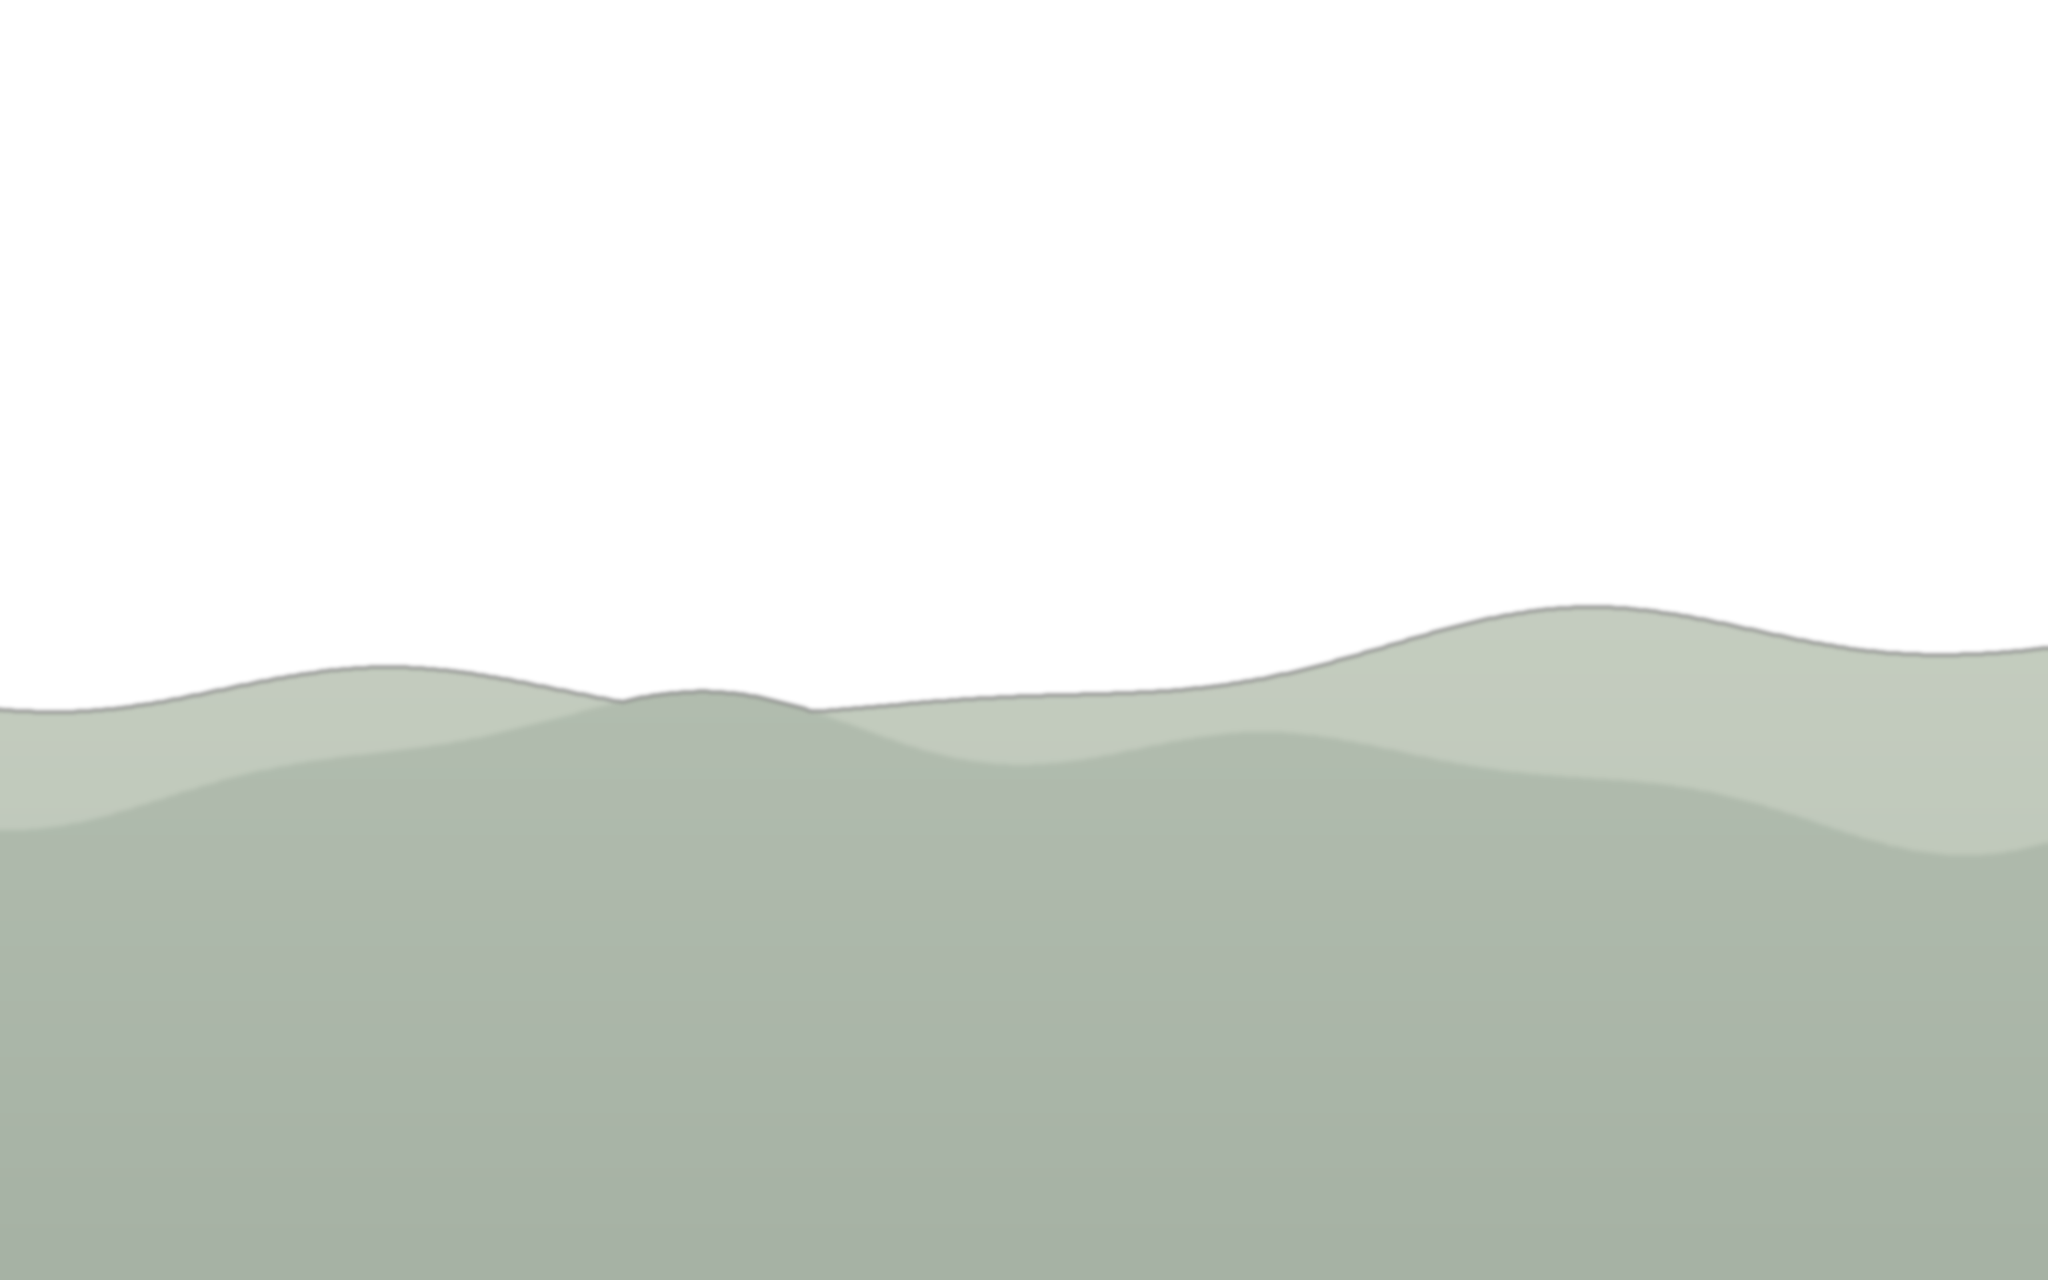
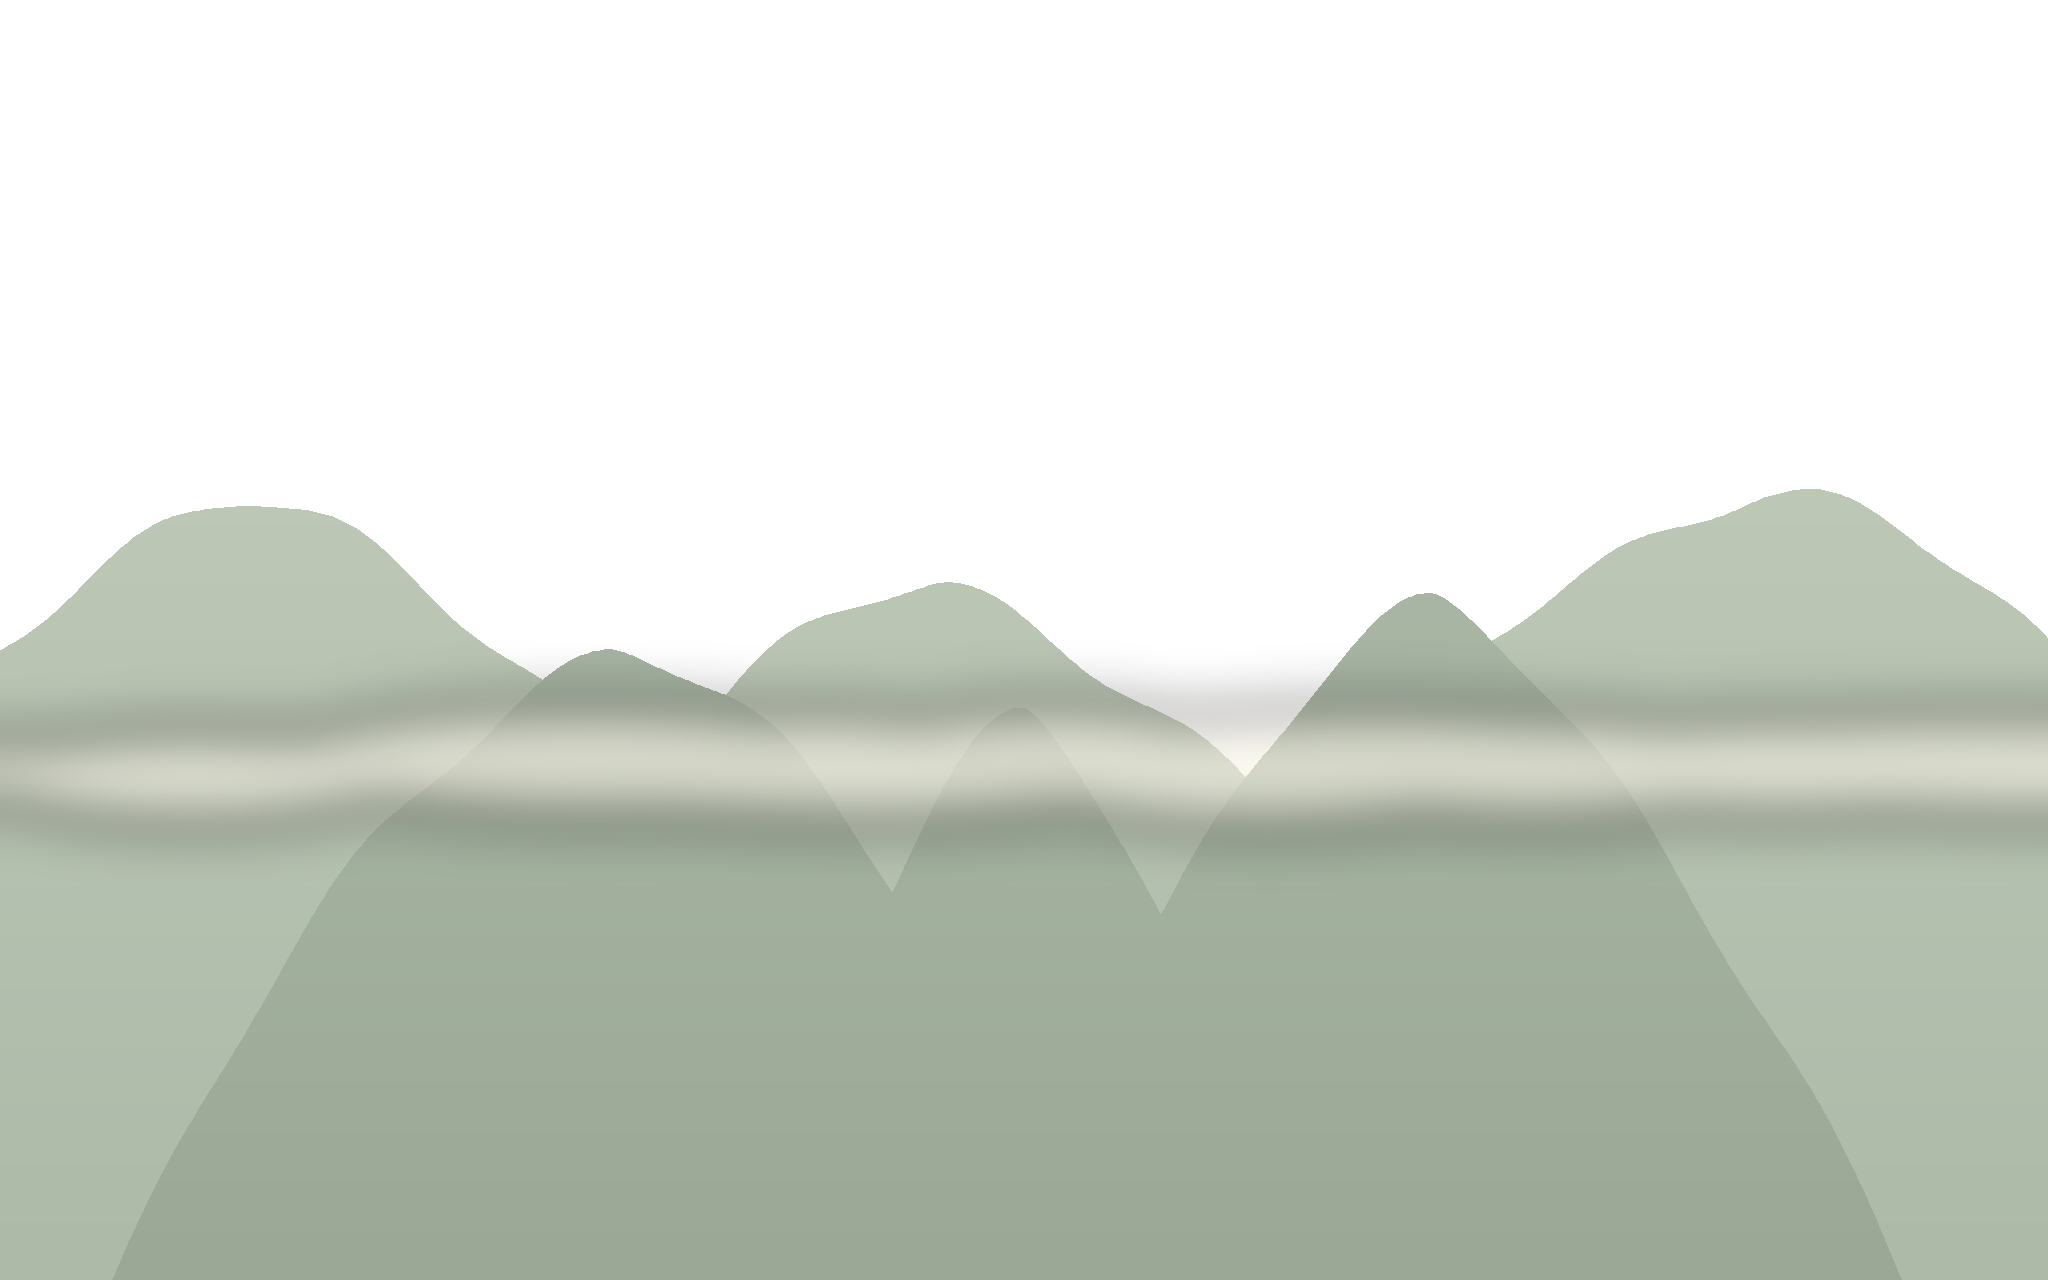
feat(3d): 改用用户豆包原图做主稿（裁 16:9），顶部拉伸作天幕，画幅铺满入画态

Changed region(s): [[0.0, 0.375, 1.0, 0.6875], [0.875, 0.625, 1.0, 0.6562], [0.0, 0.625, 0.0625, 0.6562]]

diff --git a/app/src/main/java/com/example/demo/scene/LushanLayers.kt b/app/src/main/java/com/example/demo/scene/LushanLayers.kt
@@ -100,13 +100,10 @@ suspend fun buildLushanMorning(content: SpatialViewContent) {
     content.addEntity(root)
 
     // 远景：11 米外，画幅 12×7.5 米
-    addLayerTo(root, "scene/far.png", 12f, 7.5f, 0f, 1.9f, -11f)
-    // 中景：主峰与主瀑布，8 米外
-    addLayerTo(root, "scene/mid.png", 9.2f, 5.75f, 0f, 1.75f, -8f)
-    // 水雾：瀑布脚下
-    addLayerTo(root, "scene/mist.png", 4.4f, 2.75f, 0f, 1.05f, -6.6f, opacity = 0.9f)
-    // 近景：崖台与松树，压住画面下缘
-    addLayerTo(root, "scene/near.png", 7.6f, 4.75f, 0f, 1.05f, -5.5f)
+    // 天幕：把原图顶部拉伸出的大气层，铺满画幅之外
+    addLayerTo(root, "scene/skyfill.jpg", 40f, 22.5f, 0f, 3.2f, -13f)
+    // 主稿：用户自己用豆包生成的青绿山水原图
+    addLayerTo(root, "scene/base.jpg", 17.8f, 10.0f, 0f, 2.2f, -6.2f)
 }
 
 

diff --git a/app/src/main/java/com/example/demo/content/ScrollPage.kt b/app/src/main/java/com/example/demo/content/ScrollPage.kt
@@ -63,8 +63,6 @@ fun ScrollPage() {
     // 临时验证：启动后自动进入入画态（先收起主窗，避免挡住场景）
     androidx.compose.runtime.LaunchedEffect(Unit) {
         kotlinx.coroutines.delay(1200)
-        nav.minimizeWindowContainer()
-        kotlinx.coroutines.delay(500)
         nav.openStage(id = "lushan", style = StageStyle.Full)
     }
 

diff --git a/tools/gen_scene.py b/tools/gen_scene.py
@@ -1,11 +1,13 @@
 """
-诗境漫游 · 望庐山瀑布 分层剪影生成器
-纯程序化绘制，不依赖任何外部素材（规避版权）。
-输出 4 张 RGBA PNG 到 app/src/main/assets/scene/：
-  far.png   远景：淡青绿山峦 + 云气
-  mid.png   中景：青绿主峰 + 紫云 + 主瀑布
-  near.png  近景：崖台 + 水潭 + 松树剪影
-  mist.png  水雾
+诗境漫游 · 望庐山瀑布 分层图（第二版：贴近青绿山水参考图的构图与气质）
+
+构图约定：
+  天幕 sky：上暖下淡，晨光在左上
+  远景 far：两层淡青远山，山脚被云气吃掉
+  中景 mid：左右两座高峰夹出中央峡谷，主瀑布落下，山腰紫云横带
+  近景 near：左右墨松框住画面，底部崖台与水潭
+  水雾 mist：瀑布脚下
+全部程序化绘制，不使用任何外部素材。
 """
 import math
 import random
@@ -17,190 +19,192 @@ W, H = 2048, 1280
 OUT = Path(__file__).resolve().parents[1] / "app" / "src" / "main" / "assets" / "scene"
 OUT.mkdir(parents=True, exist_ok=True)
 
-random.seed(20261121)
+random.seed(715)
 
 
-def hex2rgb(h):
-    return ((h >> 16) & 0xFF, (h >> 8) & 0xFF, h & 0xFF)
+def rgba(h, a=255):
+    return ((h >> 16) & 0xFF, (h >> 8) & 0xFF, h & 0xFF, a)
 
 
-def ridge(x, base, amp, freqs, phases):
-    """多重正弦叠出的山脊线，x ∈ [0,1]"""
-    y = base
-    for a, f, p in zip(amp, freqs, phases):
-        y += a * math.sin(2 * math.pi * f * x + p)
-    return y
+def _rgb(c):
+    return c if isinstance(c, tuple) else ((c >> 16) & 0xFF, (c >> 8) & 0xFF, c & 0xFF)
 
 
-def fill_ridge(draw, w, h, pts, top, bottom):
-    """按山脊折线填充，颜色从上到下渐变"""
-    poly = pts + [(w, h), (0, h)]
-    draw.polygon(poly, fill=top)
-    # 上色渐变：用逐行叠加实现
-    mask = Image.new("L", (w, h), 0)
-    ImageDraw.Draw(mask).polygon(poly, fill=255)
-    grad = Image.new("RGB", (w, h))
-    gd = ImageDraw.Draw(grad)
+def vgrad(size, top, bottom, alpha_top=255, alpha_bottom=255):
+    top, bottom = _rgb(top), _rgb(bottom)
+    w, h = size
+    img = Image.new("RGBA", (w, h))
+    d = ImageDraw.Draw(img)
     for y in range(h):
         t = y / max(1, h - 1)
         col = tuple(int(top[i] + (bottom[i] - top[i]) * t) for i in range(3))
-        gd.line([(0, y), (w, y)], fill=col)
-    return grad, mask
+        a = int(alpha_top + (alpha_bottom - alpha_top) * t)
+        d.line([(0, y), (w, y)], fill=col + (a,))
+    return img
 
 
-def make_layer(ridges, filename, blur=1.2):
-    """ridges: list of (base, amp, freqs, phases, color_top, color_bottom)"""
-    canvas = Image.new("RGBA", (W, H), (0, 0, 0, 0))
-    for base, amp, freqs, phases, ctop, cbot in ridges:
-        pts = []
-        for i in range(0, W + 1, 4):
-            x = i / W
-            y = ridge(x, base, amp, freqs, phases) * H
-            pts.append((i, y))
-        grad, mask = fill_ridge(ImageDraw.Draw(canvas), W, H, pts, hex2rgb(ctop), hex2rgb(cbot))
-        layer = Image.new("RGBA", (W, H), (0, 0, 0, 0))
-        layer.paste(grad, (0, 0), mask)
-        canvas = Image.alpha_composite(canvas, layer)
-    if blur:
-        canvas = canvas.filter(ImageFilter.GaussianBlur(blur))
-    canvas.save(OUT / filename)
-    print("写出", OUT / filename)
-
-
-# ── 远景：三叠远山，淡到几乎融进天光 ──
-make_layer(
-    [
-        (0.52, [0.030, 0.018, 0.010], [0.7, 1.9, 3.4], [0.4, 2.1, 0.8], 0xCFD6C9, 0xB9C3B5),
-        (0.60, [0.038, 0.020, 0.012], [0.9, 2.3, 4.1], [2.4, 0.6, 1.7], 0xBFC9BB, 0xA6B2A4),
-    ],
-    "far.png",
-    blur=2.4,
-)
-
-# ── 中景：左右主峰，中间留出瀑布的缺口 ──
-mid = Image.new("RGBA", (W, H), (0, 0, 0, 0))
-d = ImageDraw.Draw(mid)
-
-def peak(cx, half_w, top, base=1.02, smooth=1.9):
-    """以 cx 为中心、宽 half_w 的尖峰"""
+def ridge_curve(width, peaks, wobble=0.012, steps=4):
     pts = []
-    for i in range(0, W + 1, 3):
-        x = i / W
-        dx = abs(x - cx) / half_w
-        if dx >= 1:
-            y = 1.05
-        else:
-            y = top + (base - top) * (dx ** smooth)
-            y += 0.012 * math.sin(29 * x + cx * 20)
+    for i in range(0, width + 1, steps):
+        x = i / width
+        y = 1.05
+        for cx, hw, top in peaks:
+            dx = abs(x - cx) / hw
+            if dx < 1:
+                y = min(y, top + (1.05 - top) * (dx ** 1.55))
+        if y < 1.04:
+            y += wobble * math.sin(23 * x + 1.7) + wobble * 0.6 * math.sin(61 * x + 0.4)
         pts.append((i, y * H))
     return pts
 
-for cx, hw, tp, ctop, cbot in [
-    (0.20, 0.34, 0.24, 0x8FA796, 0x5F7A72),
-    (0.80, 0.34, 0.21, 0x8FA796, 0x5F7A72),
-    (0.36, 0.20, 0.38, 0x7B9688, 0x546C65),
-    (0.64, 0.20, 0.40, 0x7B9688, 0x546C65),
-]:
-    pts = peak(cx, hw, tp)
-    grad, mask = fill_ridge(d, W, H, pts, hex2rgb(ctop), hex2rgb(cbot))
-    sub = Image.new("RGBA", (W, H), (0, 0, 0, 0))
-    sub.paste(grad, (0, 0), mask)
-    mid = Image.alpha_composite(mid, sub)
-    d = ImageDraw.Draw(mid)
 
-# 主瀑布：中间缺口里的白色竖带
+def mountain(width, height, peaks, top_color, bottom_color, rim=None):
+    layer = Image.new("RGBA", (width, height), (0, 0, 0, 0))
+    pts = ridge_curve(width, peaks)
+    poly = pts + [(width, height), (0, height)]
+
+    mask = Image.new("L", (width, height), 0)
+    ImageDraw.Draw(mask).polygon(poly, fill=255)
+    grad = vgrad((width, height), top_color, bottom_color)
+    layer.paste(grad, (0, 0), mask)
+
+    if rim:
+        edge = Image.new("RGBA", (width, height), (0, 0, 0, 0))
+        ed = ImageDraw.Draw(edge)
+        ed.line(pts, fill=_rgb(rim) + (255,), width=4, joint="curve")
+        edge = edge.filter(ImageFilter.GaussianBlur(3))
+        edge.putalpha(edge.getchannel("A").point(lambda v: int(v * 0.55)))
+        layer = Image.alpha_composite(layer, edge)
+    return layer
+
+
+def cloud_band(width, height, cy, color, alpha, thick, blur):
+    img = Image.new("RGBA", (width, height), (0, 0, 0, 0))
+    d = ImageDraw.Draw(img)
+    for _ in range(26):
+        x = random.uniform(-0.05, 1.05) * width
+        rw = random.uniform(0.08, 0.22) * width
+        rh = thick * height * random.uniform(0.5, 1.4)
+        dx = random.uniform(-0.01, 0.01) * height
+        d.ellipse([x - rw, cy * height + dx - rh, x + rw, cy * height + dx + rh],
+                  fill=color + (alpha,))
+    return img.filter(ImageFilter.GaussianBlur(blur))
+
+
+# ── 天幕 ──
+sky = vgrad((W, H), (0xF7, 0xEE, 0xD9), (0xD9, 0xDE, 0xCB))
+glow = Image.new("RGBA", (W, H), (0, 0, 0, 0))
+ImageDraw.Draw(glow).ellipse([-0.25 * W, -0.35 * H, 0.55 * W, 0.45 * H],
+                             fill=(0xFF, 0xE6, 0xB8, 130))
+glow = glow.filter(ImageFilter.GaussianBlur(120))
+sky = Image.alpha_composite(sky, glow)
+sky.save(OUT / "sky.png")
+print("写出 sky.png")
+
+# ── 远景 ──
+far = Image.new("RGBA", (W, H), (0, 0, 0, 0))
+far = Image.alpha_composite(
+    far,
+    mountain(W, H, [(0.12, 0.42, 0.40), (0.46, 0.36, 0.46), (0.86, 0.40, 0.38)],
+             0xC7D0C0, 0xADBAA8),
+)
+far = Image.alpha_composite(
+    far,
+    mountain(W, H, [(0.30, 0.26, 0.50), (0.70, 0.24, 0.48), (0.50, 0.14, 0.55)],
+             0xB6C2B2, 0x9AA895),
+)
+far = Image.alpha_composite(far, cloud_band(W, H, 0.60, (0xFA, 0xF5, 0xE8), 150, 0.035, 26))
+far.save(OUT / "far.png")
+print("写出 far.png")
+
+# ── 中景 ──
+mid = Image.new("RGBA", (W, H), (0, 0, 0, 0))
+mid = Image.alpha_composite(
+    mid,
+    mountain(W, H, [(0.18, 0.40, 0.22), (0.36, 0.16, 0.34)], 0x8FA895, 0x5A7268,
+             rim=0xD7E2CF),
+)
+mid = Image.alpha_composite(
+    mid,
+    mountain(W, H, [(0.82, 0.40, 0.20), (0.64, 0.16, 0.32)], 0x8FA895, 0x5A7268,
+             rim=0xD7E2CF),
+)
+mid = Image.alpha_composite(
+    mid,
+    mountain(W, H, [(0.42, 0.13, 0.40)], 0x7B9688, 0x4E665F, rim=0xCFDCC8),
+)
+mid = Image.alpha_composite(
+    mid,
+    mountain(W, H, [(0.58, 0.13, 0.38)], 0x7B9688, 0x4E665F, rim=0xCFDCC8),
+)
+
 fall = Image.new("RGBA", (W, H), (0, 0, 0, 0))
 fd = ImageDraw.Draw(fall)
-for cx, w0, y0, y1, a0, a1 in [
-    (0.500, 46, 0.30, 0.78, 235, 150),
-    (0.470, 16, 0.36, 0.74, 150, 90),
-    (0.531, 14, 0.34, 0.75, 140, 85),
+for cx, w0, y0, y1, a in [
+    (0.500, 30, 0.33, 0.72, 246),
+    (0.500, 54, 0.72, 0.80, 220),
+    (0.470, 12, 0.40, 0.70, 150),
+    (0.532, 12, 0.38, 0.70, 150),
 ]:
-    fd.polygon(
-        [
-            (W * cx - w0, H * y0),
-            (W * cx + w0, H * y0),
-            (W * cx + w0 * 1.5, H * y1),
-            (W * cx - w0 * 1.5, H * y1),
-        ],
-        fill=(255, 255, 255, a0),
-    )
-fall = fall.filter(ImageFilter.GaussianBlur(3))
+    fd.polygon([(W * cx - w0, H * y0), (W * cx + w0, H * y0),
+                (W * cx + w0 * 1.35, H * y1), (W * cx - w0 * 1.35, H * y1)],
+               fill=(255, 255, 255, a))
+fall = fall.filter(ImageFilter.GaussianBlur(2))
 mid = Image.alpha_composite(mid, fall)
 
-# 紫云：压在山腰的横向云气
-cloud = Image.new("RGBA", (W, H), (0, 0, 0, 0))
-cd = ImageDraw.Draw(cloud)
-for cx, cy, rw, rh, a in [
-    (0.30, 0.44, 0.26, 0.035, 110),
-    (0.66, 0.40, 0.28, 0.030, 95),
-    (0.50, 0.50, 0.34, 0.026, 80),
-]:
-    cd.ellipse(
-        [W * (cx - rw), H * (cy - rh), W * (cx + rw), H * (cy + rh)],
-        fill=(0x8B, 0x7B, 0xA8, a),
-    )
-cloud = cloud.filter(ImageFilter.GaussianBlur(26))
-mid = Image.alpha_composite(mid, cloud)
+mid = Image.alpha_composite(mid, cloud_band(W, H, 0.42, (0x8B, 0x7B, 0xA8), 120, 0.028, 30))
+mid = Image.alpha_composite(mid, cloud_band(W, H, 0.50, (0xF6, 0xF1, 0xE4), 140, 0.030, 26))
 mid.save(OUT / "mid.png")
-print("写出", OUT / "mid.png")
+print("写出 mid.png")
 
-# ── 近景：崖台 + 水潭 + 松树 ──
+# ── 近景 ──
 near = Image.new("RGBA", (W, H), (0, 0, 0, 0))
+ledge = ridge_curve(W, [(0.30, 0.34, 0.80), (0.70, 0.34, 0.82), (0.50, 0.12, 0.86)],
+                    wobble=0.010)
+mask = Image.new("L", (W, H), 0)
+ImageDraw.Draw(mask).polygon(ledge + [(W, H), (0, H)], fill=255)
+near.paste(vgrad((W, H), (0x3E4641), (0x151917)), (0, 0), mask)
 nd = ImageDraw.Draw(near)
 
-# 崖台（底部整条）
-ledge = []
-for i in range(0, W + 1, 4):
-    x = i / W
-    y = 0.80 + 0.03 * math.sin(6.0 * x) + 0.012 * math.sin(17 * x + 1.2)
-    ledge.append((i, y * H))
-grad, mask = fill_ridge(nd, W, H, ledge, hex2rgb(0x3E4641), hex2rgb(0x171B18))
-sub = Image.new("RGBA", (W, H), (0, 0, 0, 0))
-sub.paste(grad, (0, 0), mask)
-near = Image.alpha_composite(near, sub)
-nd = ImageDraw.Draw(near)
+nd.ellipse([W * 0.34, H * 0.80, W * 0.66, H * 0.90], fill=rgba(0xDCE9E4, 220))
+nd.ellipse([W * 0.39, H * 0.815, W * 0.61, H * 0.86], fill=rgba(0xF1F6EE, 200))
 
-# 水潭
-nd.ellipse([W * 0.33, H * 0.795, W * 0.67, H * 0.875], fill=(0xDD, 0xE7, 0xE0, 210))
-nd.ellipse([W * 0.38, H * 0.805, W * 0.62, H * 0.845], fill=(0xEF, 0xF3, 0xEC, 190))
 
-# 左右松树剪影
-def pine(cx, base_y, scale, color=(0x1B, 0x1F, 0x1D, 255)):
-    trunk_w = 16 * scale
-    nd.rectangle(
-        [W * cx - trunk_w, H * base_y - 420 * scale, W * cx + trunk_w, H * base_y],
-        fill=color,
-    )
-    for k in range(5):
-        ty = H * base_y - (140 + k * 78) * scale
-        half = (150 - k * 24) * scale
-        nd.polygon(
-            [
-                (W * cx - half, ty + 60 * scale),
-                (W * cx + half, ty + 60 * scale),
-                (W * cx, ty - 40 * scale),
-            ],
-            fill=color,
-        )
+def pine(cx, base_y, scale, tilt=0.0):
+    col = rgba(0x171B18)
+    tw = 15 * scale
+    nd.polygon([(W * cx - tw, H * base_y), (W * cx + tw, H * base_y),
+                (W * cx + tw * 0.5 + W * tilt, H * base_y - 470 * scale),
+                (W * cx - tw * 0.5 + W * tilt, H * base_y - 470 * scale)], fill=col)
+    for k in range(6):
+        ty = H * base_y - (150 + k * 62) * scale
+        half = (170 - k * 22) * scale
+        sy = ty - 46 * scale
+        nd.polygon([(W * cx - half + W * tilt * 0.6, ty),
+                    (W * cx + half + W * tilt * 0.6, ty),
+                    (W * cx + W * tilt, sy)], fill=col)
 
-pine(0.055, 1.02, 1.15)
-pine(0.945, 1.03, 1.05)
-near = near.filter(ImageFilter.GaussianBlur(0.8))
+
+pine(0.075, 1.03, 1.25, tilt=0.004)
+pine(0.155, 1.02, 0.85, tilt=-0.003)
+pine(0.925, 1.04, 1.15, tilt=-0.004)
+pine(0.855, 1.03, 0.80, tilt=0.003)
+near = near.filter(ImageFilter.GaussianBlur(0.7))
 near.save(OUT / "near.png")
-print("写出", OUT / "near.png")
+print("写出 near.png")
 
 # ── 水雾 ──
 mist = Image.new("RGBA", (W, H), (0, 0, 0, 0))
 md = ImageDraw.Draw(mist)
 for cx, cy, rw, rh, a in [
-    (0.50, 0.74, 0.16, 0.045, 150),
-    (0.44, 0.70, 0.09, 0.030, 110),
-    (0.57, 0.71, 0.08, 0.026, 100),
+    (0.500, 0.735, 0.150, 0.040, 170),
+    (0.440, 0.700, 0.075, 0.026, 120),
+    (0.565, 0.705, 0.070, 0.024, 115),
+    (0.500, 0.790, 0.120, 0.030, 140),
 ]:
     md.ellipse([W * (cx - rw), H * (cy - rh), W * (cx + rw), H * (cy + rh)],
-               fill=(0xEC, 0xF1, 0xE8, a))
-mist = mist.filter(ImageFilter.GaussianBlur(24))
+               fill=(0xEC, 0xF3, 0xEA, a))
+mist = mist.filter(ImageFilter.GaussianBlur(22))
 mist.save(OUT / "mist.png")
-print("写出", OUT / "mist.png")
-print("全部完成")
+print("写出 mist.png")
+print("第二版全部完成")
